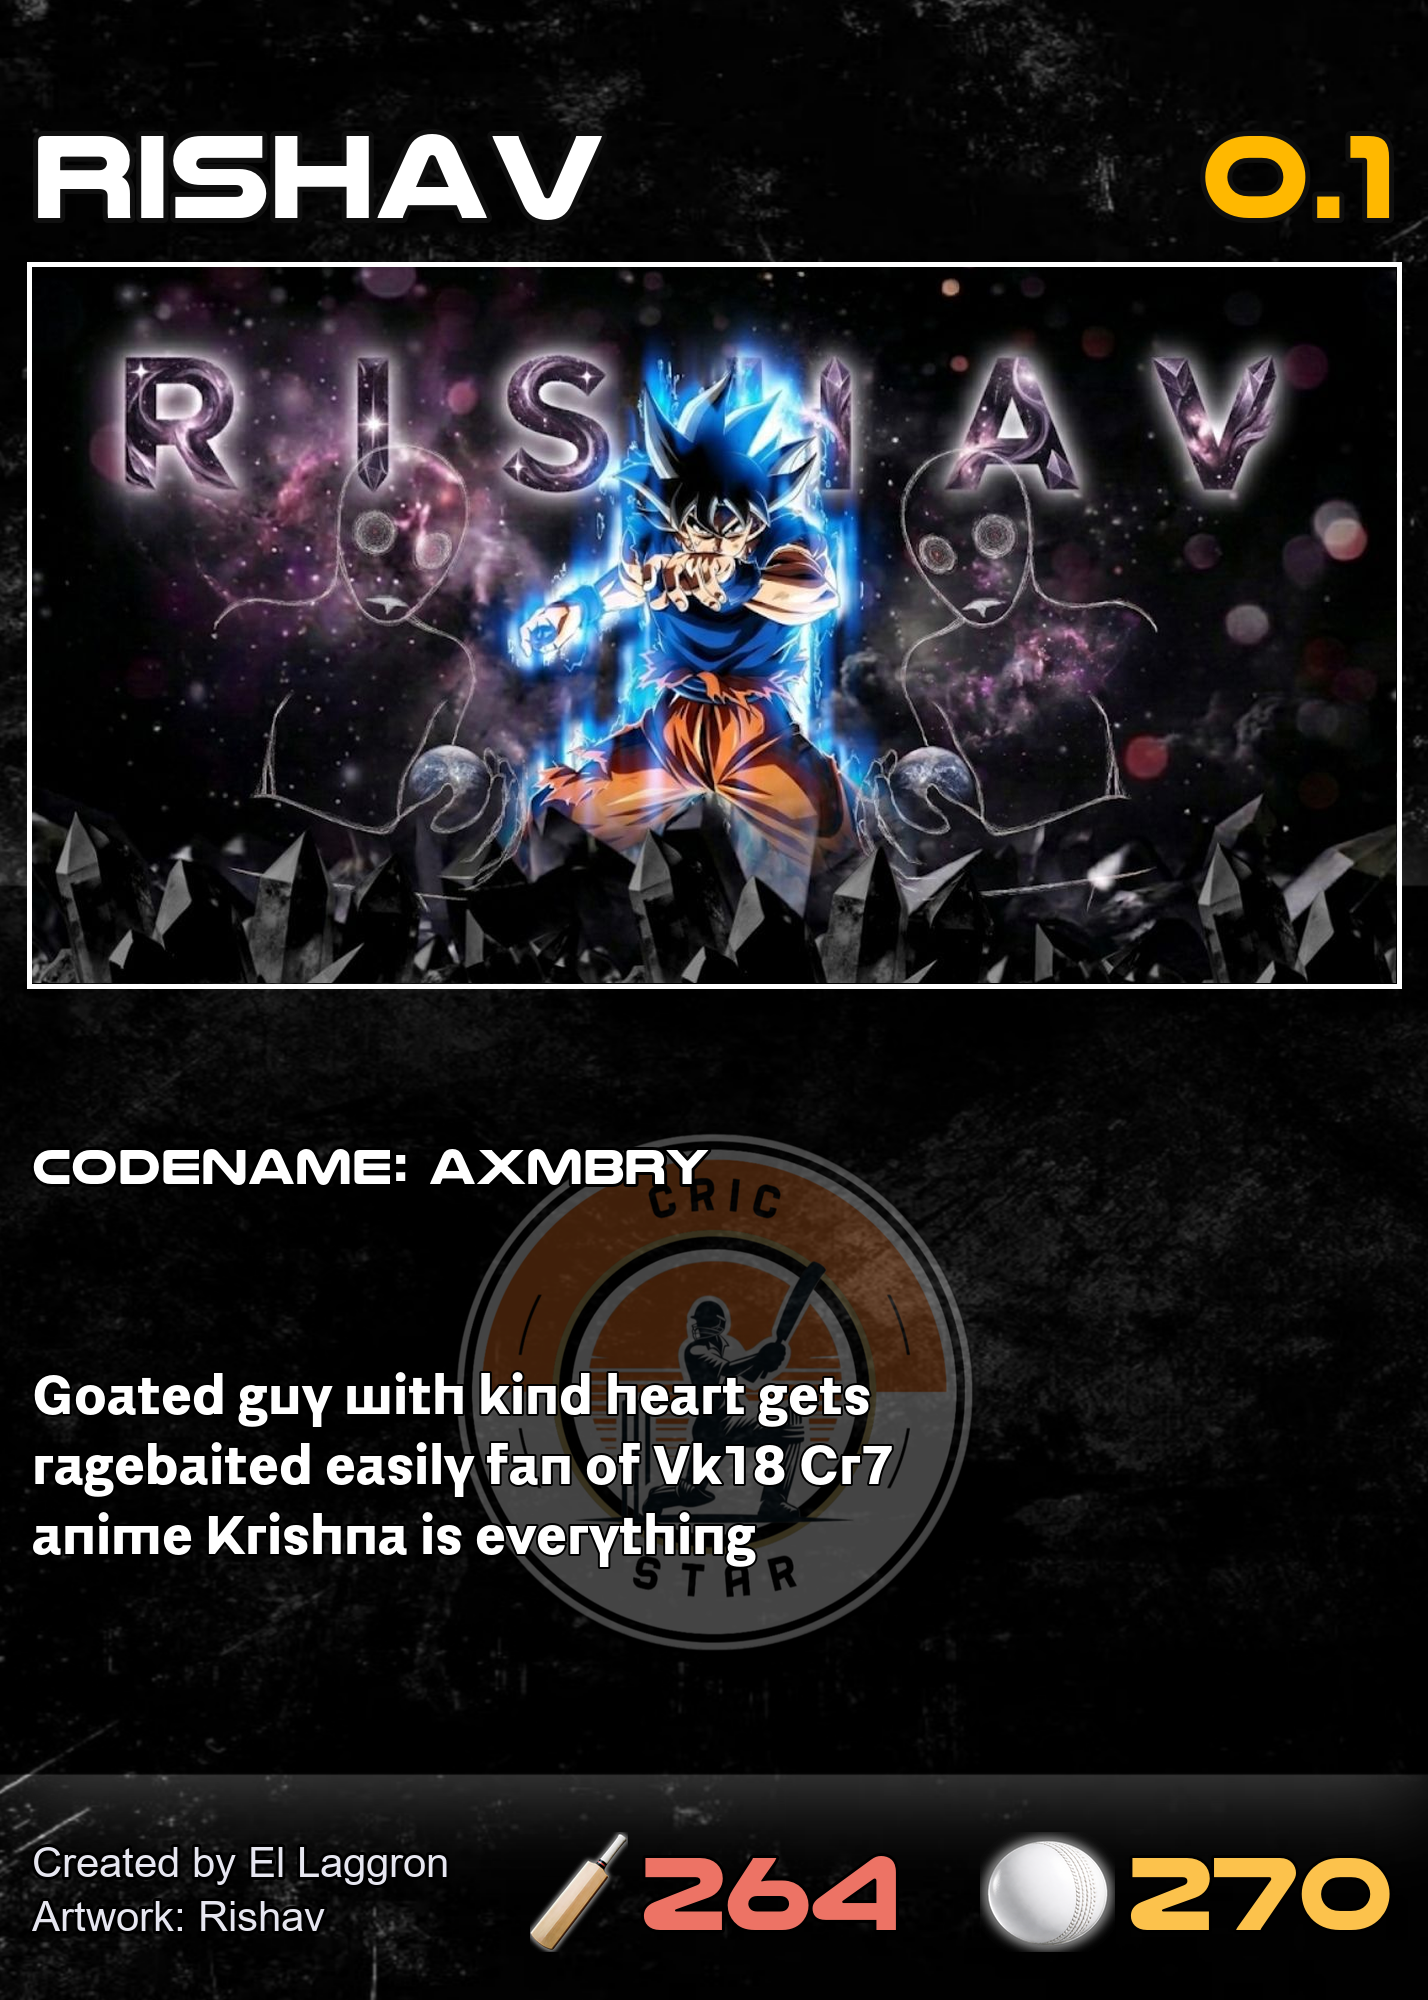
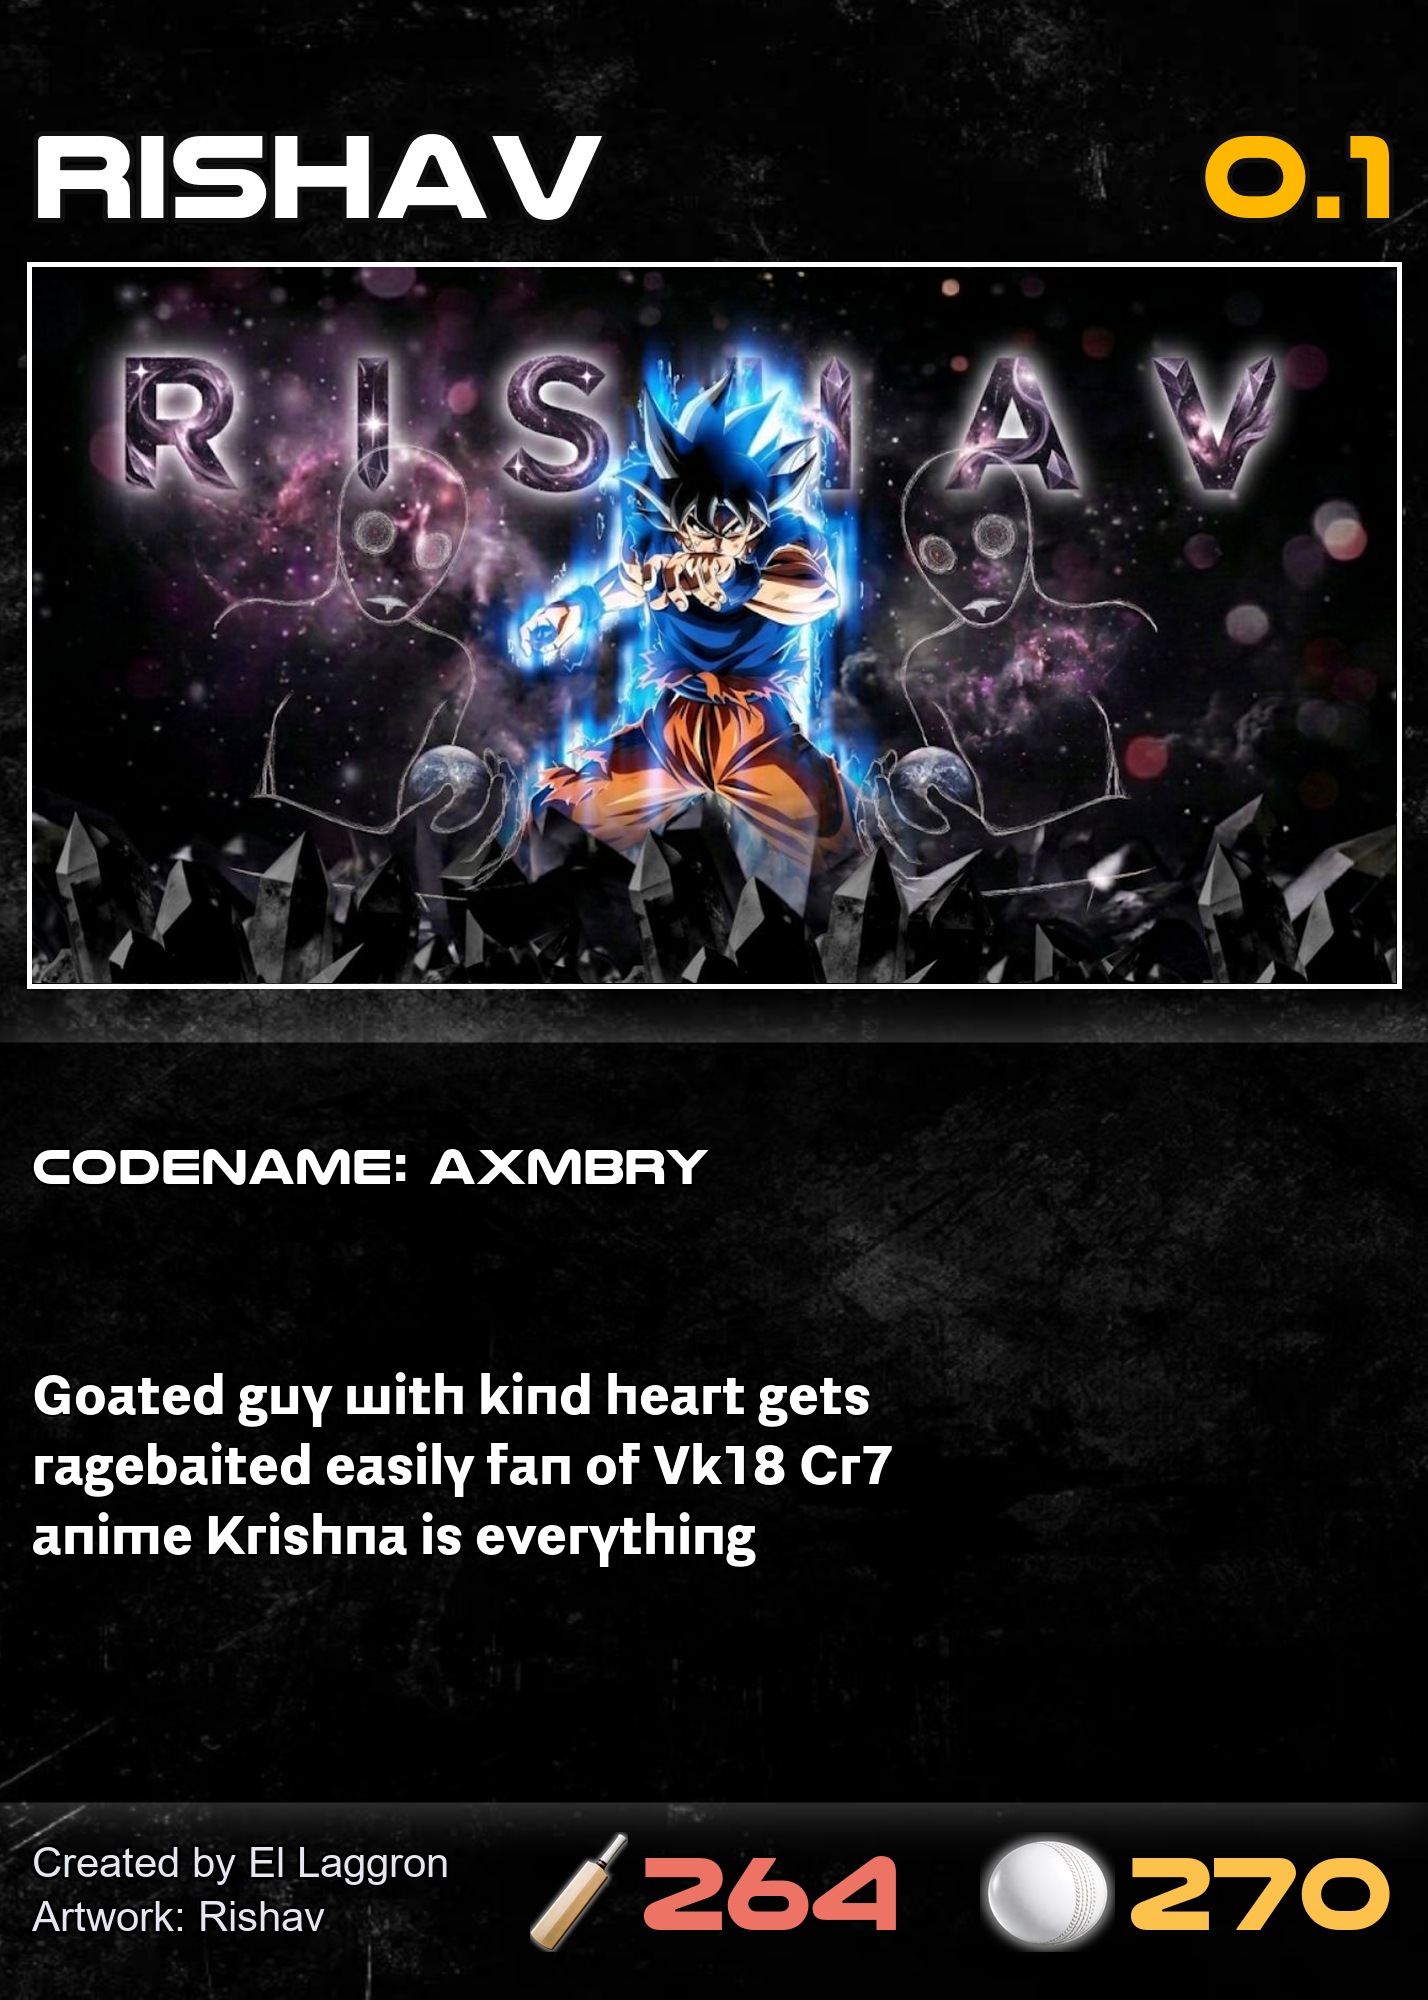
Adjust player card layout and stat positioning
Update Y-coordinates for player name, rarity, codename, and description. Reposition the bat icon and number to X=720, placing it adjacent to the ball icon cluster.

Replit-Commit-Author: Agent
Replit-Commit-Session-Id: 63eef69e-7baf-4389-9de5-37bcb6ae2cd5
Replit-Commit-Checkpoint-Type: full_checkpoint
Replit-Commit-Event-Id: 01317773-30d8-475d-9cb3-039a5297fb53
Replit-Helium-Checkpoint-Created: true

diff --git a/cricstar/core/image_generator/image_gen.py b/cricstar/core/image_generator/image_gen.py
@@ -360,8 +360,8 @@ def draw_premade_card(
     FRAME_BOTTOM = FRAME_Y + FRAME_H
 
     INFO_Y     = FRAME_BOTTOM + 36        # where text panel begins
-    CODENAME_Y = INFO_Y + 117            # +65 px lower
-    DESC_Y     = CODENAME_Y + 224       # +40 px lower
+    CODENAME_Y = INFO_Y + 82             # -35 px
+    DESC_Y     = CODENAME_Y + 174       # -50 px
 
     BAR_H  = 180                          # bottom stats bar height
     BAR_Y  = CARD_H - BAR_H              # 1820
@@ -397,7 +397,7 @@ def draw_premade_card(
     rarity_str = str(rarity)
     name_text  = player_name.upper()
 
-    NAME_RARITY_Y = TOP_BAR_H // 2 + 110  # +65 px lower
+    NAME_RARITY_Y = TOP_BAR_H // 2 + 90   # -20 px
 
     # Rarity — right-aligned, gold
     draw.text(
@@ -520,7 +520,7 @@ def draw_premade_card(
     ball_icon_path = str(SOURCES_PATH / "ball_icon.png")
 
     # ── Bat stat ──────────────────────────────────────────────────────────────
-    BAT_X = 530
+    BAT_X = 720   # moved right, close to ball cluster
     bat_icon_w = _paste_icon(bat_icon_path, ICON_H, BAT_X)
     draw = ImageDraw.Draw(bg)   # re-acquire after paste
 
